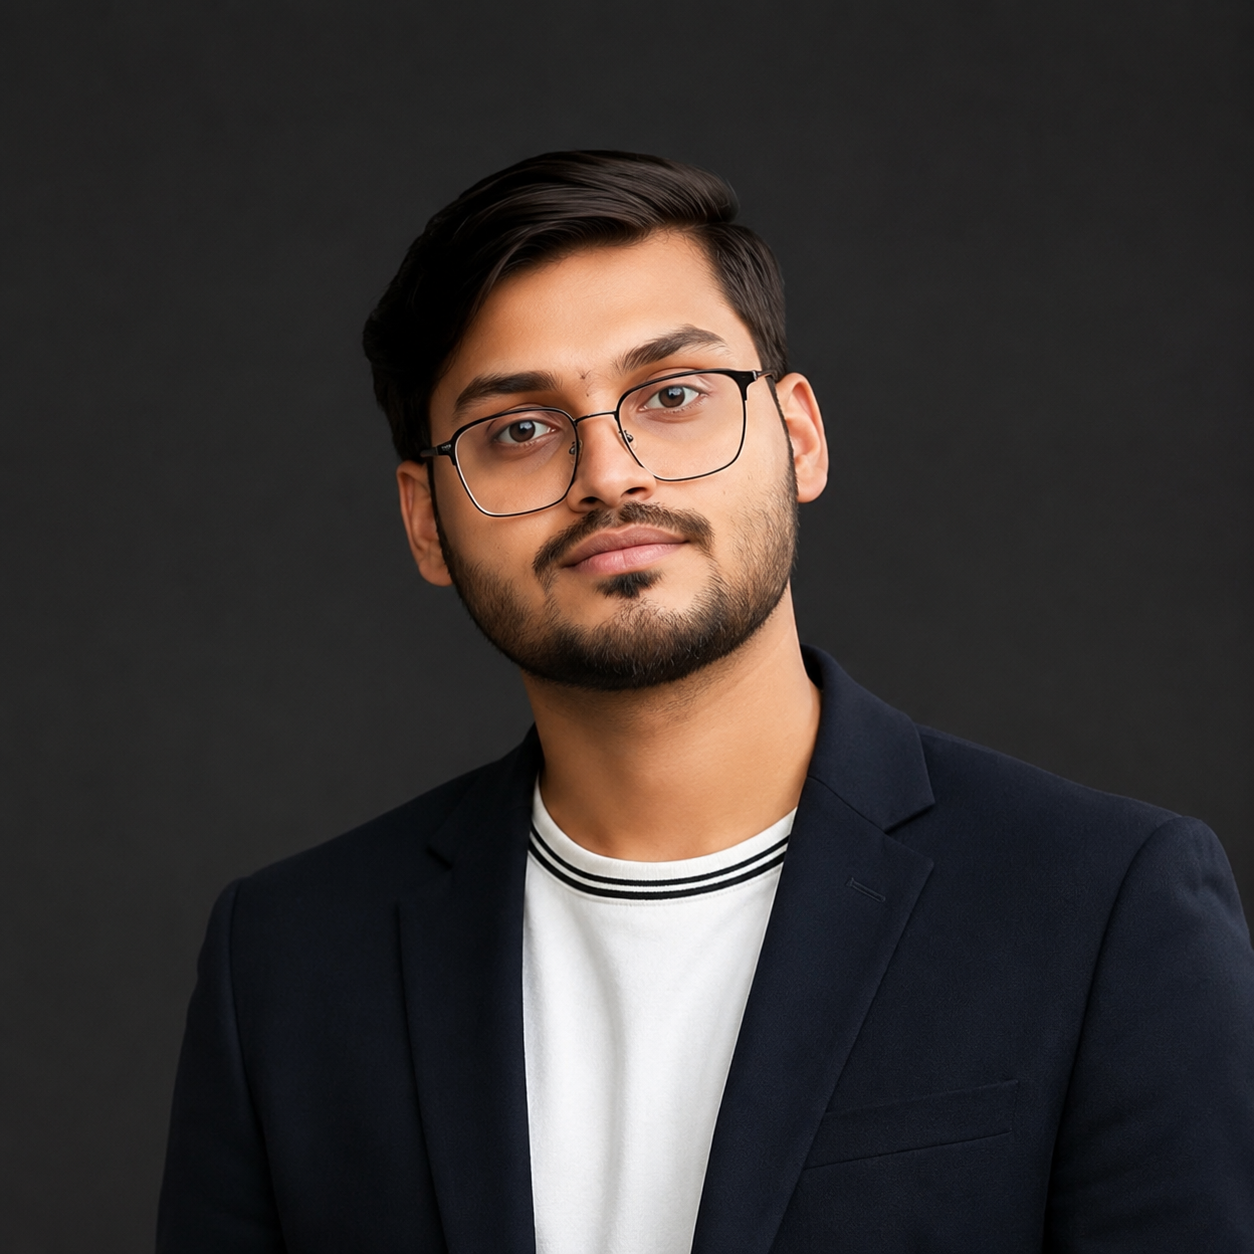
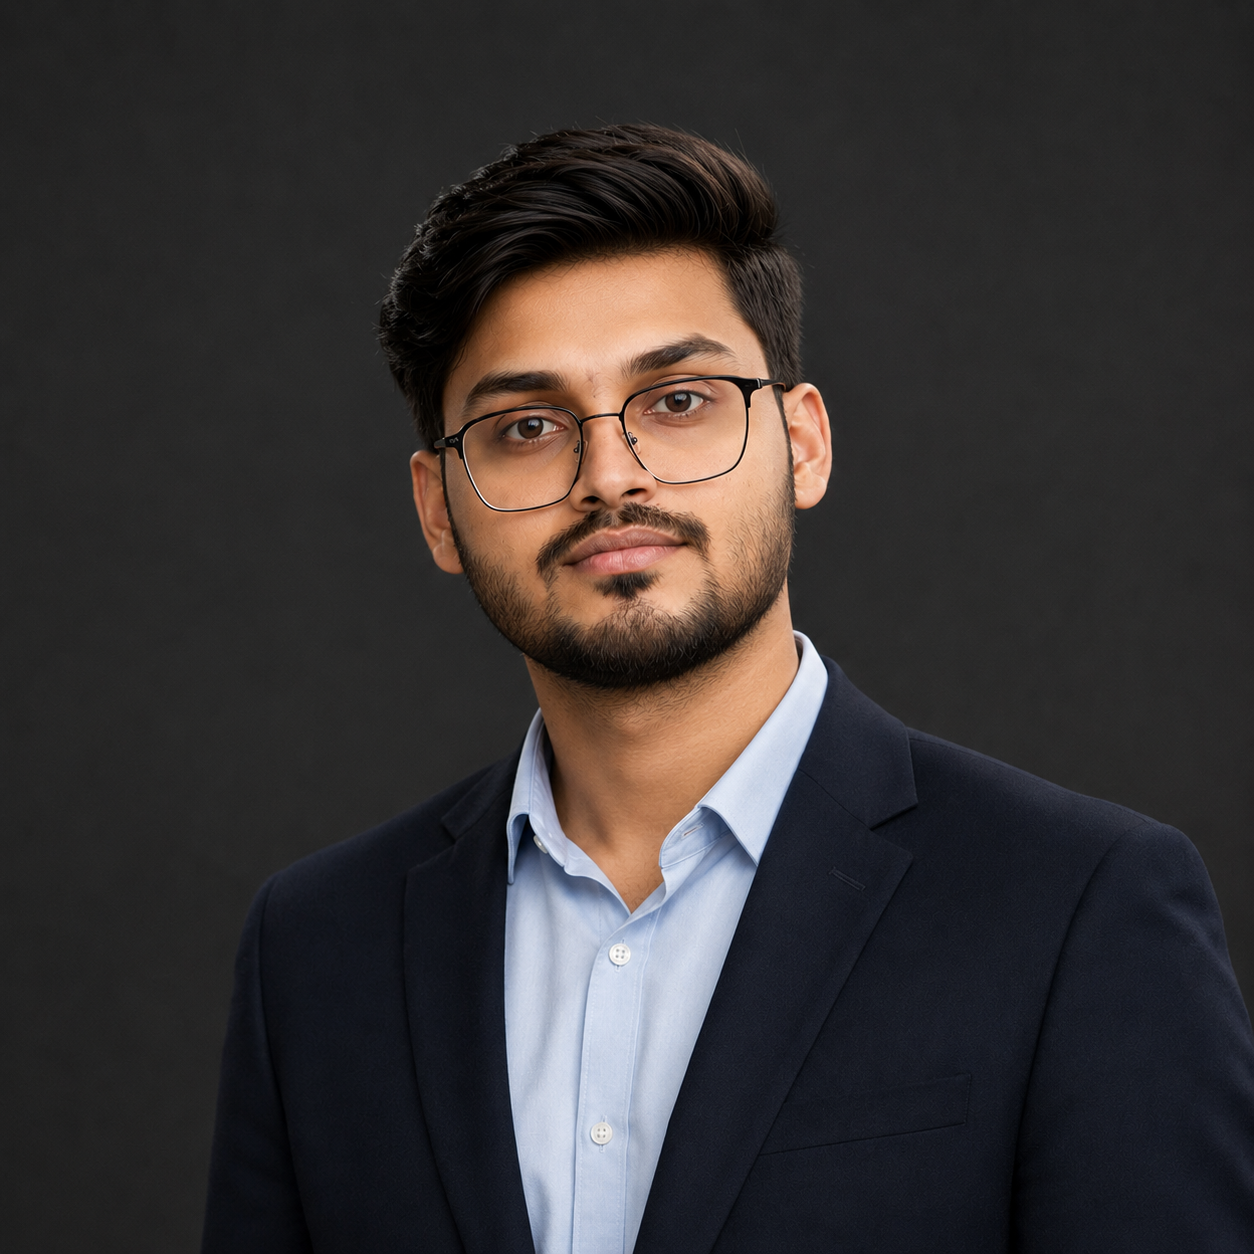
Images-Changes

diff --git a/src/pages/About-Us.tsx b/src/pages/About-Us.tsx
@@ -54,7 +54,9 @@ const About= () => {
       </h2>
 
       <p className="max-content text-[15px] md:text-[21px] leading-[1.8] text-[#6d6d6d] font-light">
-      You built something worth being proud of. But when someone lands on your website, scrolls your feed, or sees your brand for the first time, does it show? That's the question <strong>Perfect Pixel Pro</strong>  was built to answer.<br/> We are a Toronto-based brand design and marketing agency. We work with businesses that are good at what they do but aren't being seen the way they deserve. We fix that through branding, web design, social content, campaigns, and production that makes your business look exactly as serious as it is."
+      You built something worth being proud of. But when someone lands on your website, scrolls your feed, or encounters your brand for the first time, does that excellence translate? That is the exact question Perfect Pixel Pro was built to answer.<br/>
+
+We are a globally unique brand design and marketing agency, operating from our strategic hubs in <strong>India</strong> and <strong>Edmonton</strong>. We partner with ambitious businesses that are exceptional at what they do but aren't being seen with the prestige they deserve. We bridge that gap through world-class branding, web design, digital content, campaigns, and high-end production that makes your business look exactly as serious, sophisticated, and capable as it truly is.
       </p>
     </div>
 
@@ -66,7 +68,7 @@ const About= () => {
       </h2>
 
       <p className="w-content w text-[15px] md:text-[21px] leading-[1.8] text-[#6d6d6d] font-light">
-        To make every client the obvious choice in their market. Not through decoration. Through intention.  We believe that design done right is not an expense. It is the reason clients choose you before a single conversation happens. Every brief we take on starts with one question: what would make this brand impossible to ignore?
+        To make every client the absolute, obvious choice in their market. We don't achieve this through superficial decoration; we achieve it through deep, unwavering intention. We believe that when design and marketing are executed with absolute precision, they cease to be an expense-they become the very reason clients choose you before a single conversation even begins. Every brief we take on is rooted in building absolute trust and is driven by one core question: What makes this brand impossible to ignore?
       </p>
     </div>
 
@@ -79,17 +81,17 @@ const About= () => {
 
       <div className="w-content space-y-5">
         <p className="text-[15px] md:text-[21px] leading-[1.8] text-[#6d6d6d] font-light">
-          Perfect Pixel Pro was built on a simple observation: the best products were losing to the best-looking brands. That wasn't fair. And it was completely fixable.
+          Perfect Pixel Pro was born from a powerful realization: when the right minds come together, exceptional things happen. We knew that by combining elite strategic thinking with flawless creative execution, we could build an unstoppable force for our clients.
 
         </p>
 
         <p className="text-[15px] md:text-[21px] leading-[1.8] text-[#6d6d6d] font-light">
-          We started as a small design studio in Toronto. We were precise, selective, and obsessed with craft. Over time that reputation attracted more ambitious clients and more complex briefs across branding, web, motion, campaigns, and production.
+          We began with a clear vision to bring a rare level of craft and collaborative depth to the market-remaining fiercely precise, selective, and obsessed with quality. That dedication quickly earned the trust of ambitious global clients, allowing us to scale our operations across continents.
 
         </p>
 
         <p className="text-[15px] md:text-[21px] leading-[1.8] text-[#6d6d6d] font-light">
-          Today we work across industries. The discipline has never changed. Every pixel is still deliberate. Every detail is still strategic."
+          Today, whether we are collaborating from <strong>India</strong> or <strong>Edmonton</strong>, our discipline remains entirely unchanged. We treat every pixel as deliberate, every campaign as strategic, and every client relationship as a partnership built on transparency and elite execution.
 
         </p>
       </div>

diff --git a/src/data/teamMembers.ts b/src/data/teamMembers.ts
@@ -8,7 +8,7 @@ import T3 from "../assets/T3.png";
 import TF from "../assets/TU.png";
 import TS from "../assets/TS.jpg";
 import TSS from "../assets/TS.png";
-import TM from "../assets/TM.jpg";
+import TM from "../assets/TM.png";
 import TAV from "../assets/TAV.png";
 import TY from "../assets/TY.png";
 import TJ from "../assets/TJ.png";
